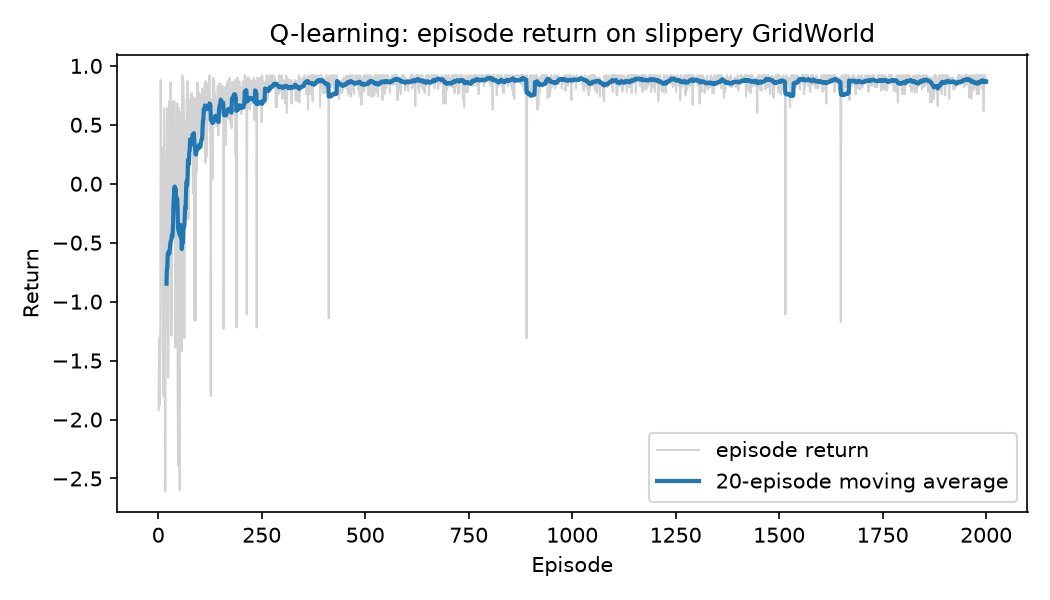
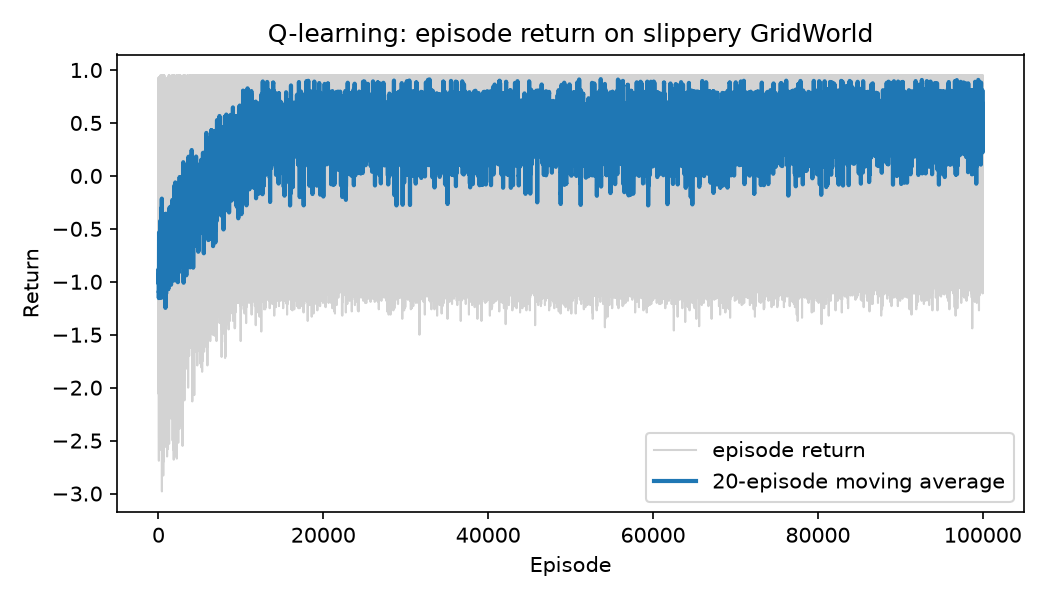
experimented with environment reset, and replaced the slippery grid world in run_q_learning

diff --git a/scripts/run_q_learning.py b/scripts/run_q_learning.py
@@ -20,7 +20,7 @@ sys.path.insert(0, os.path.join(os.path.dirname(__file__), ".."))
 
 import matplotlib.pyplot as plt
 
-from gridworld.examples import make_slippery_gridworld
+from gridworld.examples import make_easy_gridworld, make_slippery_gridworld
 from gridworld.q_learning import q_learning
 from gridworld.plotting import plot_q_values, plot_policy, plot_learning_curve
 from gridworld.animation import animate_episode
@@ -30,18 +30,20 @@ OUTPUT_DIR = os.path.join(os.path.dirname(__file__), "..", "outputs")
 
 def main() -> None:
     os.makedirs(OUTPUT_DIR, exist_ok=True)
-    env = make_slippery_gridworld(seed=0)
+    env = make_easy_gridworld(seed=0) #make_slippery_gridworld(seed=0)
 
     Q, policy, episode_returns, episode_lengths = q_learning(
         env,
-        episodes=2000,
-        alpha=0.1,
-        gamma=0.95,
+        episodes=100000,
+        alpha=0.01,
+        gamma=0.999,
         epsilon=1.0,
-        epsilon_min=0.05,
-        epsilon_decay=0.995,
+        epsilon_min=0.5,
+        epsilon_decay=0.99995,
         seed=0,
     )
+
+    print("")
     print(
         f"Q-learning finished {len(episode_returns)} episodes; "
         f"mean return over last 100 episodes = "

diff --git a/gridworld/env.py b/gridworld/env.py
@@ -116,7 +116,12 @@ class GridWorldEnv(gym.Env):
         if seed is not None:
             self._rng = np.random.default_rng(seed)
 
-        self._agent_pos = self.config.start
+        # self._agent_pos = self.config.start
+        # _agent_pos_x = self._rng.integers(0, self.width)
+        # _agent_pos_y = self._rng.integers(0, self.height)
+        # self._agent_pos = (int(_agent_pos_x), int(_agent_pos_y))
+        self._agent_pos = (3, 0)  
+
         self._step_count = 0
         self.trajectory = self._empty_trajectory()
         self.trajectory["positions"].append(self._agent_pos)
